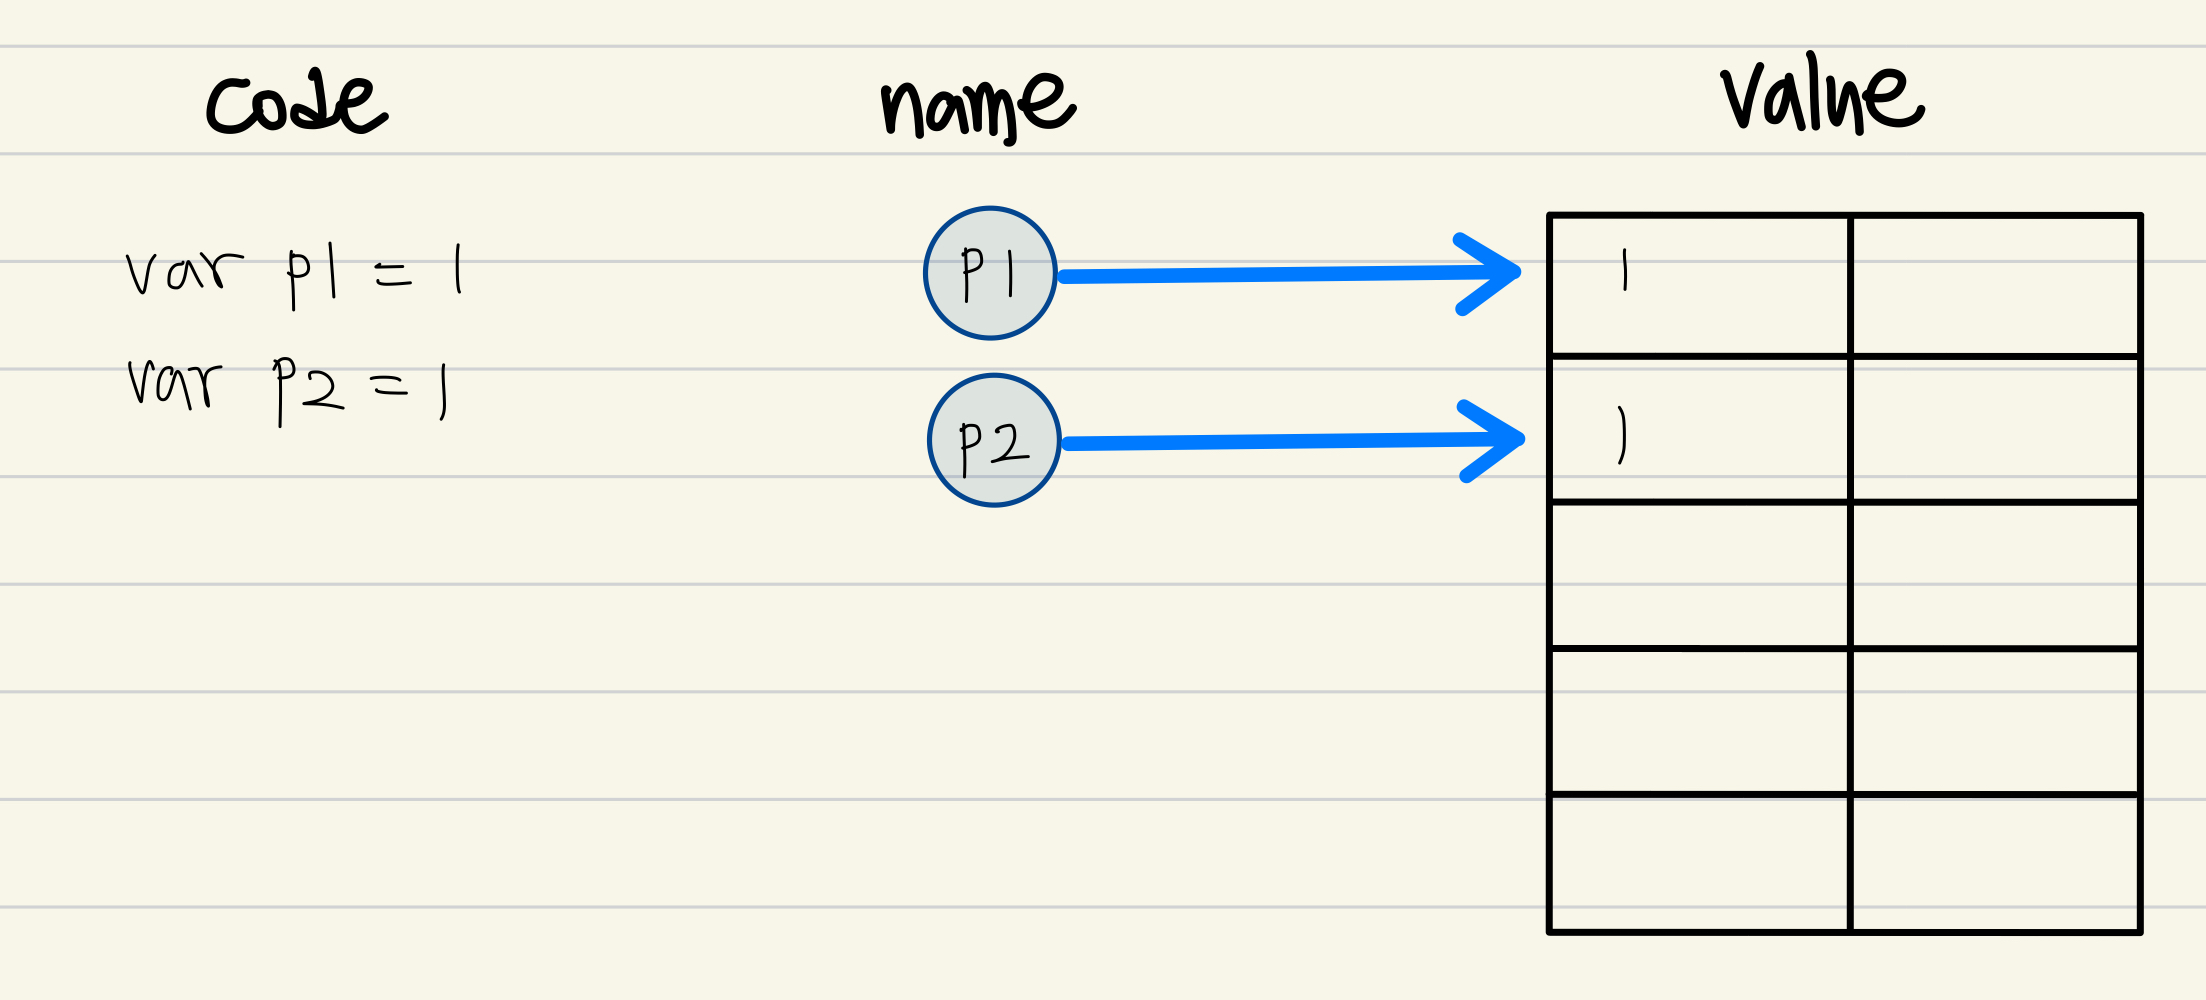
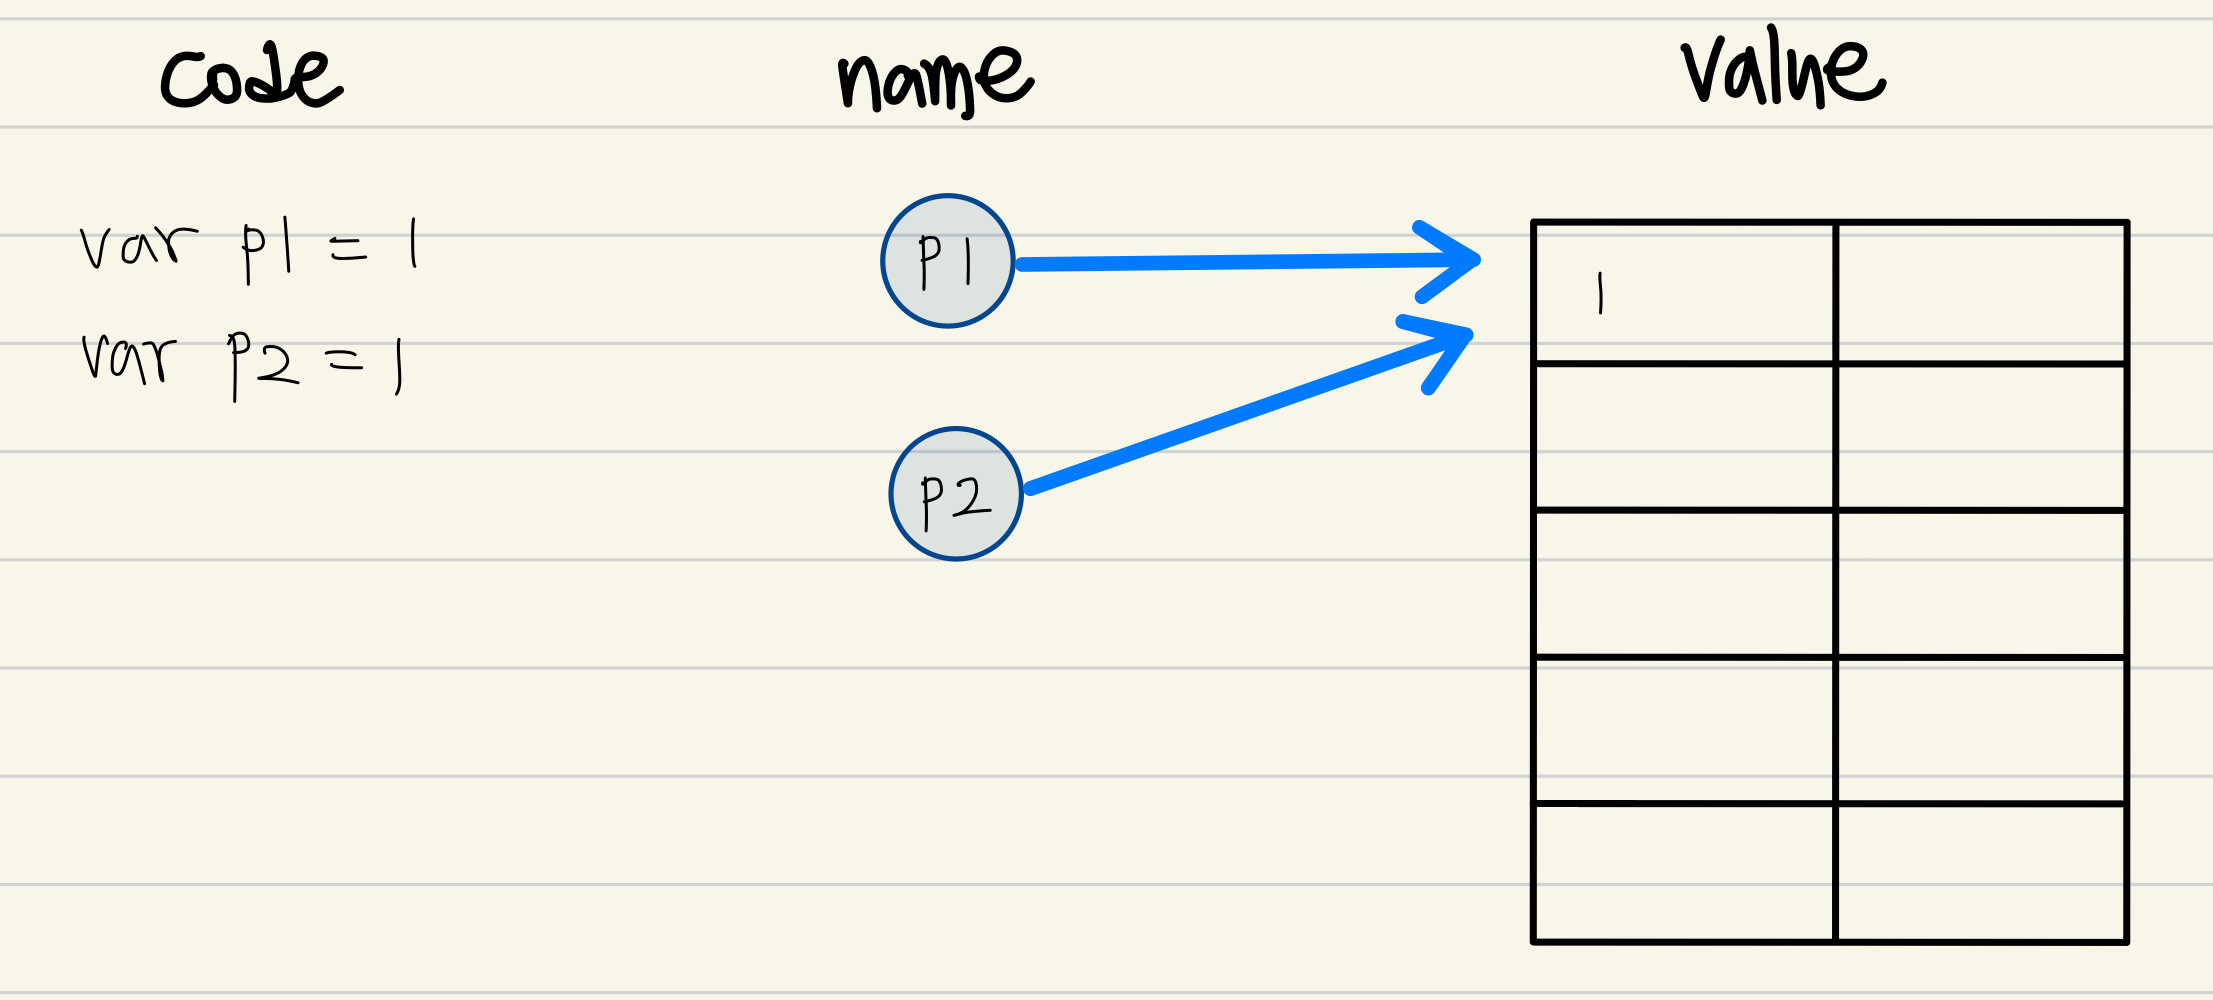
post immutablilty

diff --git a/_posts/2022-01-05-immutability-3.md b/_posts/2022-01-05-immutability-3.md
@@ -104,27 +104,7 @@ o1 === o2의 결과는 <strong style="color:red;">false</strong>
 
 => **결론** : `mutable(가변)하다`
 
-
-
-
-
-
-
-
-
-
-
-
-
-
-
-
-
-
-
-
-
-
-
-
 <img src="/assets/images/primitive-object.png" /><br/>
+
+
+# 변수 할당에 대한 불변함 - (3) 객체의 가변성
